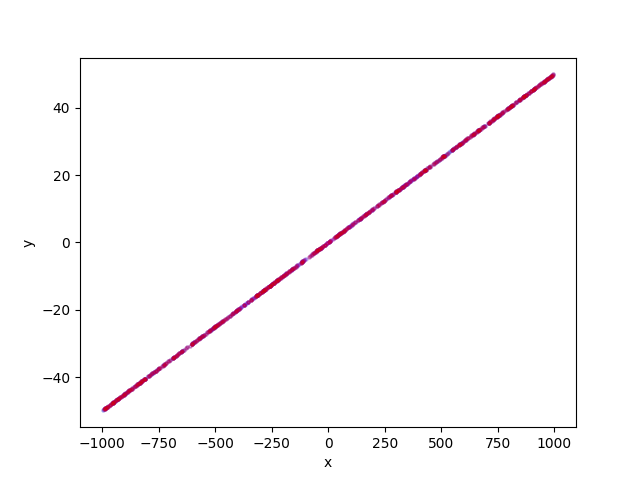
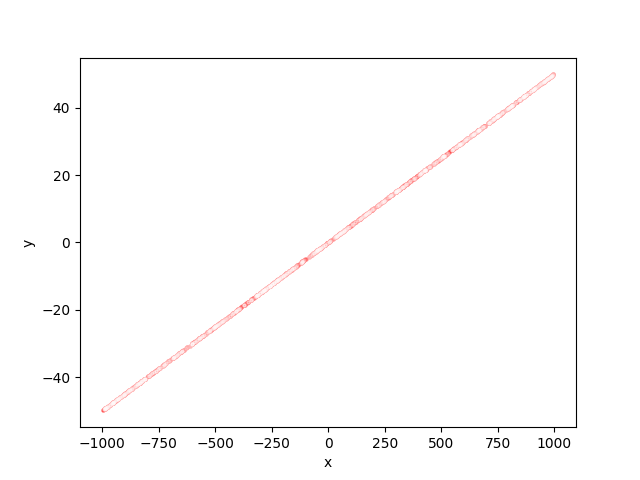
asdfgh

Changed region(s): [[0.1562, 0.1562, 0.875, 0.875]]

diff --git a/bitalg/lab1/lab1.py b/bitalg/lab1/lab1.py
@@ -122,7 +122,6 @@ def check_points_many(points,a,b,det_funcs, eps, checked_points):
             left,mid,right=categorize_points(points,a,b,det_funcs[j],eps[i])
             checked_points[i][j]=[left,mid,right]
 
-#TODO
 def diff_cheker(pointsA,pointsB):
     midinAnotB=[]
     midinBnotA=[]
@@ -139,16 +138,16 @@ def draw_diff(A,B):
     vis.add_point(B, s=POINT_SIZE, color=['red'])
     vis.show()
 
-def draw_diff_and_save(A,B,filename,line=True):
+def draw_diff_and_save(A,B,filename,line=True, a=1):
     vis=Visualizer()
     if line: vis.add_line(((-1.0, 0.0), (1.0, 0.1)), color='green')
-    vis.add_point(A,s=POINT_SIZE,color=['blue'])
-    vis.add_point(B,s=POINT_SIZE,color=['red'])
+    vis.add_point(A,s=POINT_SIZE,color=['blue'], alpha=a)
+    vis.add_point(B,s=POINT_SIZE,color=['red'], alpha=a)
     vis.show()
     vis.save(filename)
 
 def draw_spectrum_and_save(points,method,filename,howmany=3):
-    colors=["#d10000","#d1008b","#8b00d1","#0000d1"]
+    colors=["#ffffff","#ffaaaa","#ff5555","#ff0000"]
     PointSet=[set(points[i][method][1]) for i in range(howmany+1)]
     for i in range(1,howmany):
         PointSet[i]-=PointSet[i-1]
@@ -158,7 +157,7 @@ def draw_spectrum_and_save(points,method,filename,howmany=3):
             table[i].append(item)
     vis=Visualizer()
     for i in range(howmany,-1,-1):
-        vis.add_point(points[i][method][1],s=SPECTRUM_POINT_SIZE,color=colors[i],alpha=0.1)
+        vis.add_point(points[i][method][1],s=SPECTRUM_POINT_SIZE,color=colors[i],alpha=0.2)
     vis.show()
     vis.save(filename)
 
@@ -214,10 +213,10 @@ draw_line_and_save(checked_points2[0][0][0],checked_points2[0][0][1],checked_poi
 f = open("points2diffs.txt","x")
 A1,B1=diff_cheker(checked_points2[0][0],checked_points2[0][1])
 print(A1,B1,file=f)
-draw_diff_and_save(A1,B1,"points2_diff1")
+draw_diff_and_save(A1,B1,"points2_diff_2x2handlib")
 A2,B2=diff_cheker(checked_points2[0][0],checked_points2[0][3])
 print(A2,B2,file=f)
-draw_diff_and_save(A2,B2,"points2_dif2")
+draw_diff_and_save(A2,B2,"points2_dif_2x2hand_3x3hand")
 f.close()
 
 draw_line_and_save(checked_points_line[0][0][0],checked_points_line[0][0][1],checked_points_line[0][0][2],"points_line_2x2hand_eps0",False)

diff --git a/bitalg/lab2/lab2.py b/bitalg/lab2/lab2.py
@@ -1,0 +1,62 @@
+import numpy as np
+import pandas as pd
+import matplotlib.pyplot as plt
+import sys
+
+from PIL.ImageChops import difference
+from matplotlib.pyplot import inferno
+from notebook_shim.nbserver import diff_members
+
+sys.path.append('C:/Users/franc/Documents/AlgorytmyGeometryczne')
+
+from bitalg.tests.test1 import Test
+from bitalg.visualizer.main import Visualizer
+import random as random
+import math as math
+
+def angle_bettwen(A,B):
+    if A==B: return 0
+    angle1=np.arctan2(A[1],A[0])
+    angle2=np.arctan2(B[1],B[0])
+    return np.rad2deg((angle1-angle2)%(2*np.pi))
+
+def special_unique(list):
+    building=[]
+    building.append(list[0])
+    for i in range(1, len(list)):
+        if list[i][0] != list[i-1][0]:
+            building.append(list[i])
+    return building
+
+def orient(a,b,c):
+    return (a[0]-c[0])*(b[1]-c[1])-(a[1]-c[1])*(b[0]-c[0])
+
+def graham_algorithm(Q):
+    Stack=[]
+    mini=math.inf
+    for i in Q:
+        if i[1]<mini[1]:
+            mini=i
+    for i in Q:
+        if i[1]==mini[1] and i[0]<mini[0]:
+            mini=i
+    sortedpoints=[]
+    for point in Q:
+        sortedpoints.append((angle_bettwen(point,mini),math.sqrt((point[0]-mini[0])**2 + (point[1]-mini[1])**2 ),point[0],point[1]))
+    sortedpoints=sortedpoints[1:]
+    sortedpoints.sort(key=lambda tup: tup[1],reverse=True)
+    sortedpoints.sort()
+    sortedpoints=special_unique(sortedpoints)
+    Stack.append(mini)
+    Stack.append(sortedpoints[1])
+    Stack.append(sortedpoints[2])
+    stacklen=len(Stack)
+    i=3
+    while i<len(sortedpoints):
+        while orient((sortedpoints[i][2],sortedpoints[i][3]),Stack[stacklen-1],Stack[stacklen-2]) > 0:
+            Stack.pop()
+        else:
+            Stack.append((sortedpoints[i][2], sortedpoints[i][3]))
+            i += 1
+    return Stack
+
